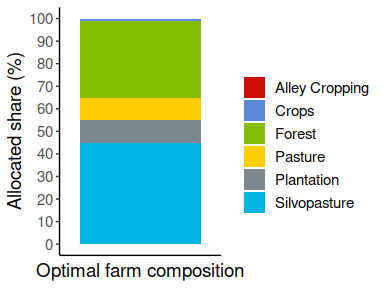
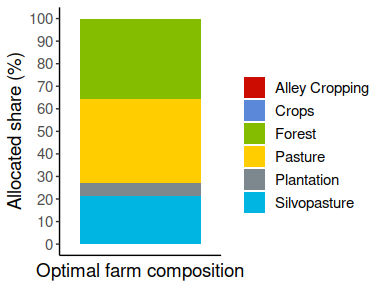
Revision 1

Changed region(s): [[0.1875, 0.4062, 0.5312, 0.6875], [0.2188, 0.0625, 0.5312, 0.0938], [0.2188, 0.3125, 0.5, 0.3438]]

diff --git a/README.md b/README.md
@@ -649,135 +649,44 @@ in the denominator and in the counter of equation 3 (Husmann et al.,
 n.d.) to not normalize the distance to {0, 1} any more.
 
 ``` r
-#### uValue == 0 ####
+#### uValue 3 ####
+path <- exampleData("exampleGosling.xlsx")
+dat <- read_excel(path)
 
-# Initializing an optimLanduse-object using initScenario()
-init_u0 <- initScenario(dat,
-                     uValue = 0,
-                     optimisticRule = "expectation", 
-                     # optimistic contribution of each indicator directly defined by their average 
-                     fixDistance = 3) 
-                     # 3 is the default
-init_u0$scenarioSettings
-```
+applyDf <- data.frame(u = seq(0, 3, .5))
 
-    ##   uValue optimisticRule
-    ## 1      0    expectation
+applyFun <- function(x) {
+  init <- initScenario(dat, uValue = x, optimisticRule = "expectation", fixDistance = 3)
+  result <- solveScenario(x = init)
+  return(c(result$beta, as.matrix(result$landUse)))
+}
 
-``` r
-names(init_u0$scenarioTable)
-```
+applyDf <- cbind(applyDf,
+                 t(apply(applyDf, 1, applyFun)))
+                 
+names(applyDf) <- c("u", "beta", names(result$landUse))
 
-    ##  [1] "indicator"             "outcomeCrops"          "outcomePasture"       
-    ##  [4] "outcomeAlley Cropping" "outcomeSilvopasture"   "outcomePlantation"    
-    ##  [7] "outcomeForest"         "direction"             "meanCrops"            
-    ## [10] "meanPasture"           "meanAlley Cropping"    "meanSilvopasture"     
-    ## [13] "meanPlantation"        "meanForest"            "semCrops"             
-    ## [16] "semPasture"            "semAlley Cropping"     "semSilvopasture"      
-    ## [19] "semPlantation"         "semForest"             "adjSemCrops"          
-    ## [22] "adjSemPasture"         "adjSemAlley Cropping"  "adjSemSilvopasture"   
-    ## [25] "adjSemPlantation"      "adjSemForest"          "minAdjSem"            
-    ## [28] "maxAdjSem"             "diffAdjSem"
+applyDf[, c(3 : 8)] <- applyDf[, c(3 : 8)] * 100
 
-``` r
-init_u0$coefObjective
-```
-
-    ##          adjSemCrops        adjSemPasture adjSemAlley Cropping 
-    ##             30692.49             39575.50             32183.89 
-    ##   adjSemSilvopasture     adjSemPlantation         adjSemForest 
-    ##             46381.16             32946.34             41772.16
-
-``` r
-colnames(init_u0$coefConstraint)
-```
-
-    ## [1] "adjSemCrops_modified"          "adjSemPasture_modified"       
-    ## [3] "adjSemAlley Cropping_modified" "adjSemSilvopasture_modified"  
-    ## [5] "adjSemPlantation_modified"     "adjSemForest_modified"
-
-``` r
-head(init_u0$distance)
-```
-
-    ##   minAdjSem maxAdjSem
-    ## 1  5.656250   7.84375
-    ## 2  4.337517   7.84375
-    ## 3  5.423330   7.84375
-    ## 4  4.337517   7.84375
-    ## 5  5.394631   7.84375
-    ## 6  4.337517   7.84375
-
-``` r
-# Solve the initialized optimLanduse object with the solveScenario() function                 
-result_u0 <- solveScenario(x = init_u0)
-
-result_u0$status
-```
-
-    ## [1] "optimized"
-
-``` r
-result_u0$beta
-```
-
-    ## [1] 0.5396
-
-``` r
-result_u0$landUse
-```
-
-    ##       Crops Pasture Alley Cropping Silvopasture Plantation    Forest
-    ## 1 0.1292587       0              0    0.4590822          0 0.4116591
-
-``` r
-# Typical result visualization
-result_u0$landUse %>% gather(key = landCoverOption, value = landCoverShare, 1:6) %>% 
-  mutate(uValue = "0",
-         landCoverShare = landCoverShare * 100) %>% 
-  ggplot(aes(y = landCoverShare, x = uValue, fill = landCoverOption)) + 
-  geom_bar(position = "stack", stat = "identity") + 
-  theme_classic() +
-  theme(text = element_text(size = 14)) +
-  scale_fill_startrek() +
-  labs(x = "Optimal farm composition", y = "Allocated share (%)") +
+applyDf %>% gather(key = "land-cover option", value = "land-cover share", -u, -beta) %>%
+  ggplot(aes(y = `land-cover share`, x = u, fill = `land-cover option`)) + 
+  geom_area(alpha = .8, color = "white") + theme_minimal()+
+  labs(x = "Uncertainty level", y = "Allocated share (%)") + 
+  guides(fill=guide_legend(title="")) + 
   scale_y_continuous(breaks = seq(0, 100, 10), 
-                     limits = c(0, 100)) +
-  theme(axis.text.x=element_blank(),
-        axis.ticks.x=element_blank()) + 
-  guides(fill=guide_legend(title=""))
-```
-
-![](README_files/figure-gfm/unnamed-chunk-12-1.png)<!-- -->
-
-``` r
-#### uValue == 3 ####
-
-init_u3 <- initScenario(dat,
-                     uValue = 3,
-                     optimisticRule = "expectation", 
-                     fixDistance = 3) 
-
-                
-result_u3 <- solveScenario(x = init_u3)
-
-result_u3$landUse %>% gather(key = landCoverOption, value = landCoverShare, 1:6) %>% 
-  mutate(uValue = "2",
-         landCoverShare = landCoverShare * 100) %>% 
-  ggplot(aes(y = landCoverShare, x = uValue, fill = landCoverOption)) + 
-  geom_bar(position = "stack", stat = "identity") + 
-  theme_classic() +
-  theme(text = element_text(size = 14)) +
+                     limits = c(0, 100.01)) +
+  scale_x_continuous(breaks = seq(0, 3, 0.5),
+                     limits = c(0, 3)) + 
   scale_fill_startrek() +
-  labs(x = "Optimal farm composition", y = "Allocated share (%)") +
-  scale_y_continuous(breaks = seq(0, 100, 10), 
-                     limits = c(0, 100)) +
-  theme(axis.text.x=element_blank(),
-        axis.ticks.x=element_blank()) + 
-  guides(fill=guide_legend(title=""))
+  theme(text = element_text(size = 18),
+        legend.position = "bottom")
 ```
 
-![](README_files/figure-gfm/unnamed-chunk-12-2.png)<!-- -->
+![](README_files/figure-gfm/unnamed-chunk-12-1.png)<!-- --> It can be
+see that the land-cover allocation transition under raising uncertainty
+differs of the here presented multi-functional scenario differs slightly
+from the multi-functional scanrio shown above. The here broadened state
+space leads an earlier increase of pasture.
 
 <h3>
 <a name="7. Suggested">Suggested citation </a>
